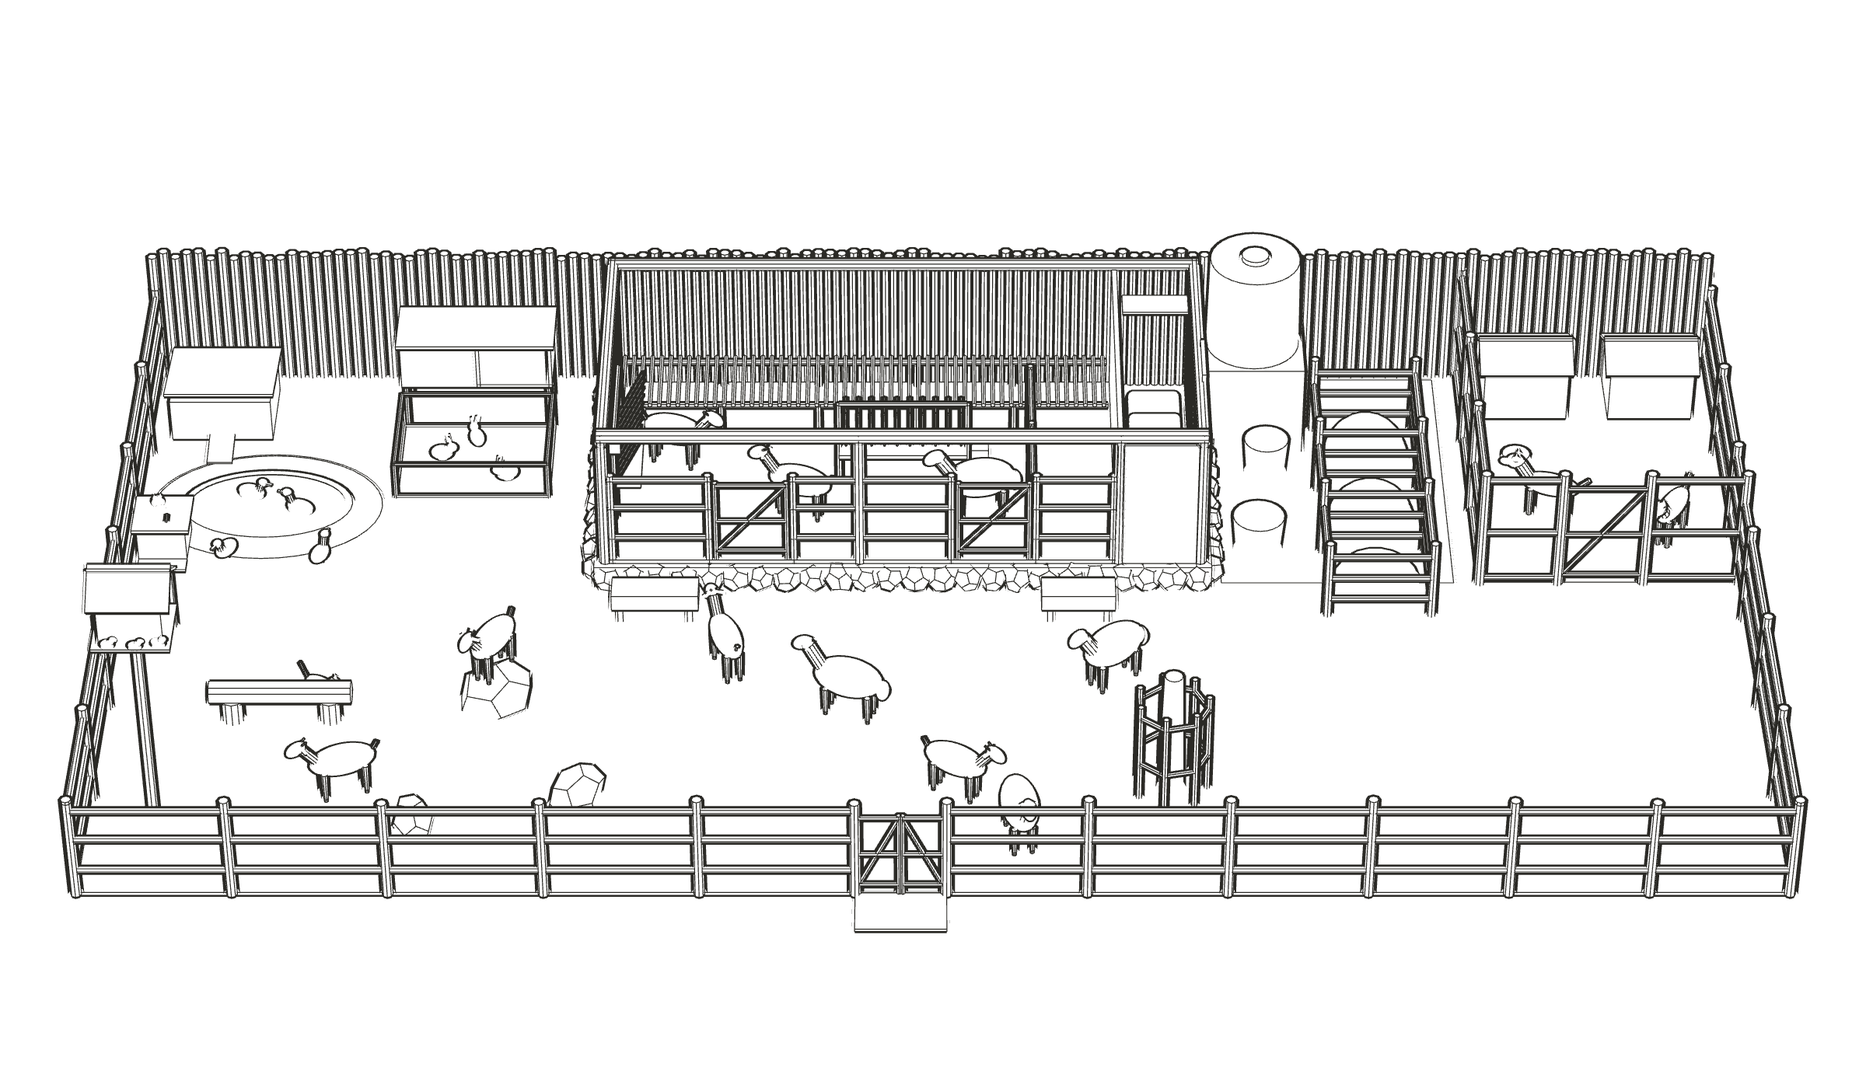
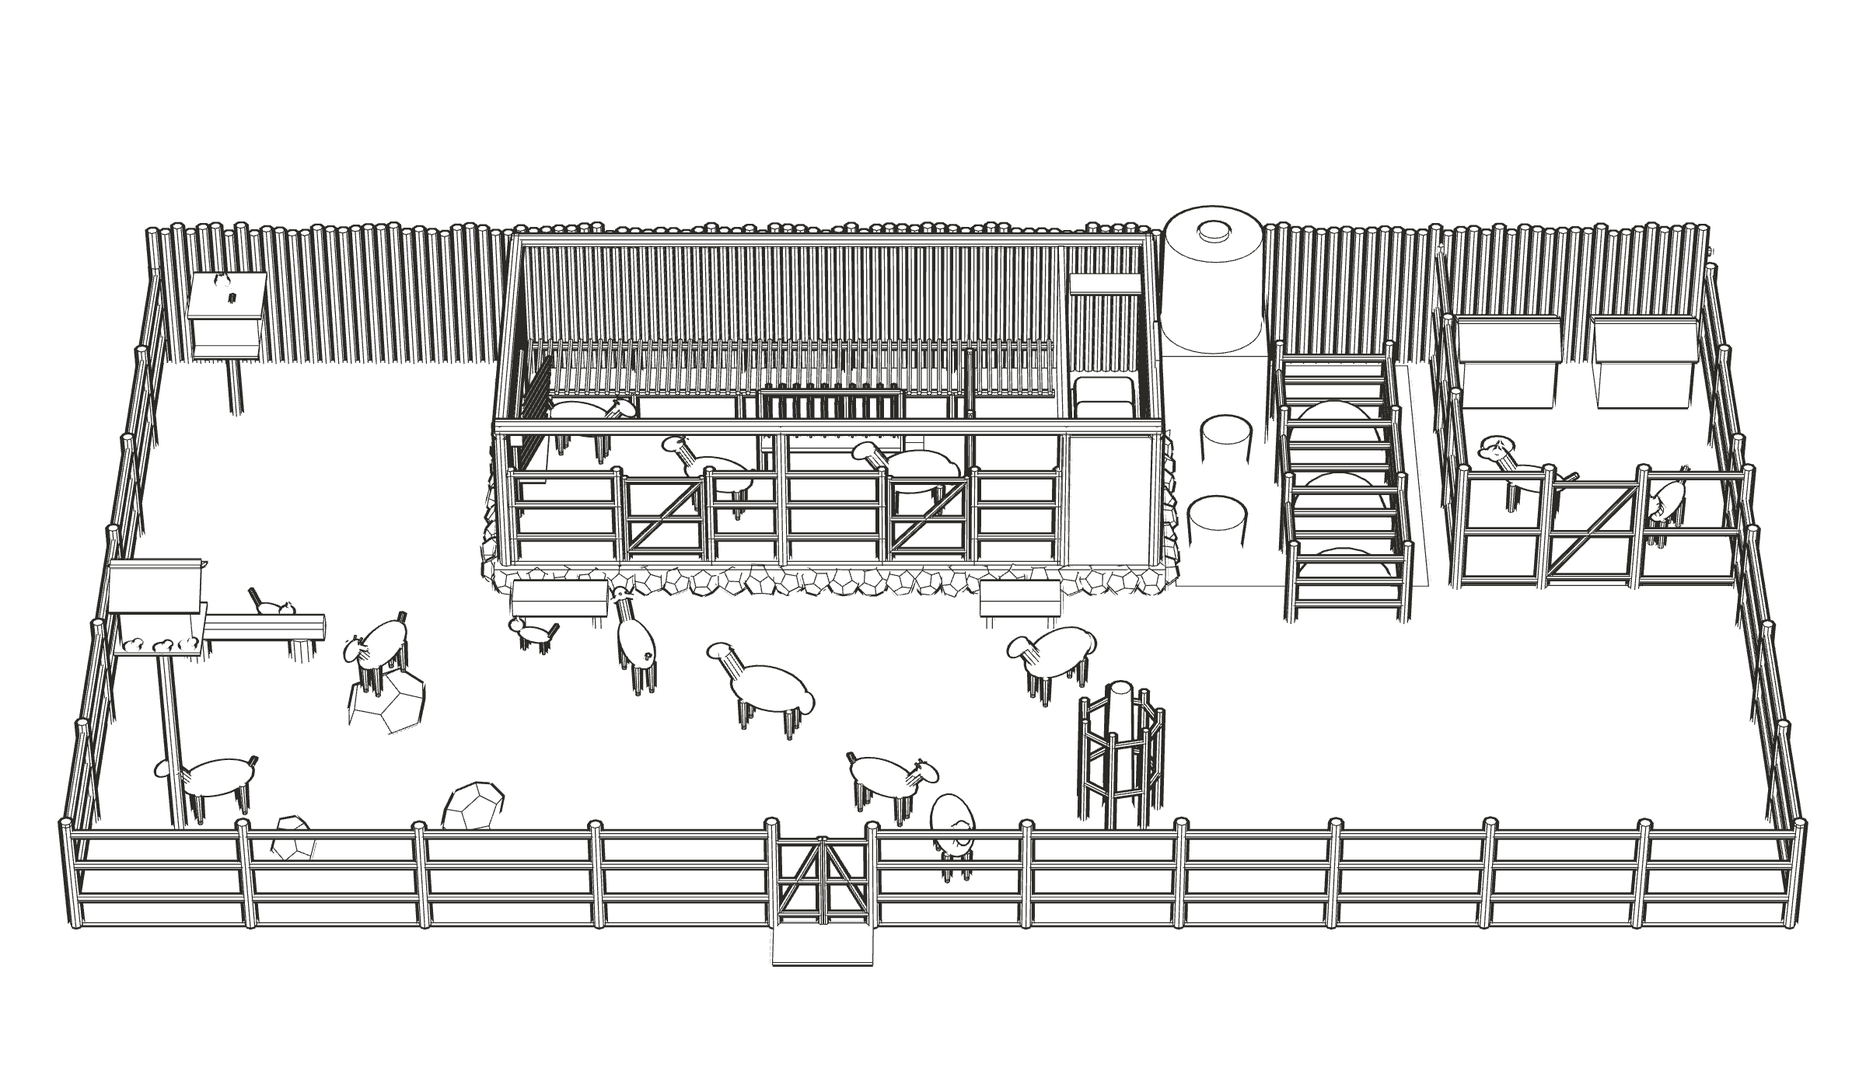
feat(livestock): farm friends are three cats and the doves, two guard dogs; D-040
The founder dropped the rabbits and the ducks and kept three cats, the birds and
two dogs. The duck house, the pond and the hutch go, the cats' house moves by the
palisade, and the outline's empty west side comes in to 17.2 m.

Claude-Session: https://claude.ai/code/session_01S6J7HfcfzMCDbDDKUuUjeQ

Changed region(s): [[0.0312, 0.1843, 0.9688, 0.8907]]

diff --git a/scripts/site/render/livestock.html b/scripts/site/render/livestock.html
@@ -6,10 +6,9 @@
   post-and-rail fence round the rest; inside it the shelter of upright eucalyptus poles on its fieldstone plinth, the
   open hall with straw litter, one slatted bamboo sleeping platform, two hay racks and the movable kidding hurdles,
   the boarded feed store; the village yard the herd, the farm friends and the guests share, with troughs, climbing
-  stones, the guarded shade tree, the ducks' house and pond, the rabbits' hutch, the dovecote, the cats' house and
-  a bench; the tank, the fodder baskets, the compost bays and the guard dogs' run in the back east corner. 6 goats,
-  4 sheep, 2 dogs, 2 cats, 4 ducks, 3 rabbits and doves. The tree's crown is cut like the roof: from this height it
-  would hide the hall and the store. Rendered three ways:
+  stones, the guarded shade tree, the dovecote, the cats' house and a bench; the tank, the fodder baskets, the
+  compost bays and the guard dogs' run in the back east corner. 6 goats, 4 sheep, 2 dogs, 3 cats and doves. The
+  tree's crown is cut like the roof: from this height it would hide the hall and the store. Rendered three ways:
 
     ?mode=line  line drawing on a transparent ground   -> public/designs/livestock/render/livestock-line.png
     ?mode=real  materials, daylight and soft shadow    -> public/designs/livestock/render/livestock-real.webp
@@ -126,7 +125,7 @@ const MAP = { yard: "earth", litter: "straw", packed: "packed", pole: "bark", bo
 
 // ------------------------------------------------------------ materials
 // thin parts get crease lines but no silhouette, so slats, rails and horns stay fine in the line drawing
-const THIN = new Set(["horn", "hoof", "bamboo", "rope", "bill"])
+const THIN = new Set(["horn", "hoof", "bamboo", "rope"])
 const COATS = { brown: "#7a4a2a", black: "#2b2522", tan: "#b48654", white: "#e6dfd2", wool: "#ece5d6" }
 const MAT = {}
 function mat(name) {
@@ -153,14 +152,10 @@ function mat(name) {
       tank: () => std({ color: "#33503a", roughness: 0.5 }),
       mesh: () => std({ color: "#6b6e70", roughness: 0.6, metalness: 0.5, transparent: true, opacity: 0.35 }),
       roofing: () => std({ color: "#5a4a3a", roughness: 0.9 }),
-      pondwater: () => new THREE.MeshPhysicalMaterial({ color: "#6f9aa8", roughness: 0.05, transparent: true, opacity: 0.85 }),
       dogtan: () => std({ color: "#a8743f", roughness: 0.85 }),
       dogblack: () => std({ color: "#2a2623", roughness: 0.85 }),
       cat: () => std({ color: "#8c8378", roughness: 0.9 }),
       ginger: () => std({ color: "#c47a3a", roughness: 0.9 }),
-      duck: () => std({ color: "#f1ede4", roughness: 0.9 }),
-      bill: () => std({ color: "#e09a2a", roughness: 0.6 }),
-      rabbit: () => std({ color: "#b8a894", roughness: 1 }),
       dove: () => std({ color: "#d9d6d2", roughness: 0.9 }),
       block: () => std({ color: "#9b958b", roughness: 0.95 }),
       hay: () => std({ map: T.hay, roughness: 1 }),
@@ -496,33 +491,9 @@ for (const a of AN.sheep) animal(a, true)
   cyl(DG.bowl.x, DG.bowl.y, DG.bowl.r, 0, 0.1, "block", 16, DG.bowl.r * 1.1)
 }
 
-// ------------------------------------------------------------ the farm friends in the yard: duck house and pond on its gravel apron,
-// the rabbits' hutch and fenced run, the dovecote, the cats' house, a log bench
+// ------------------------------------------------------------ the farm friends in the yard: the dovecote, the cats' house, a log bench
 const FRT = {}
 {
-  // the duck house, low with a ramp, and the lined pond
-  const D = FR.ducks.house
-  blk(D.x0, D.y0, D.x1, D.y1, 0.05, 0.6, "board")
-  const dr = add(new THREE.BoxGeometry(D.x1 - D.x0 + 0.1, 0.03, D.y1 - D.y0 + 0.15), "roofing", { pos: [(D.x0 + D.x1) / 2, 0.68, (D.y0 + D.y1) / 2] })
-  dr.rotation.x = -0.12
-  const ramp = add(new THREE.BoxGeometry(0.3, 0.02, 0.5), "board", { pos: [(D.x0 + D.x1) / 2, 0.08, D.y1 + 0.22] }); ramp.rotation.x = 0.15
-  const P0 = FR.ducks.pond
-  const apron = add(new THREE.CylinderGeometry(1, 1, 0.03, 40), "packed", { pos: [P0.x, 0.01, P0.y] }); apron.scale.set(P0.rx + P0.apron, 1, P0.ry + P0.apron)
-  const rim = add(new THREE.CylinderGeometry(1, 1, 0.08, 40), "stone", { pos: [P0.x, 0.03, P0.y] }); rim.scale.set(P0.rx, 1, P0.ry)
-  const wtr = add(new THREE.CylinderGeometry(1, 1, 0.02, 40), "pondwater", { pos: [P0.x, 0.075, P0.y], noEdges: LINE }); wtr.scale.set(P0.rx - 0.12, 1, P0.ry - 0.12)
-  // the rabbits' hutch on legs, a sleeping end boarded and a wire end, and the grass run (an open frame)
-  const R = FR.rabbits.hutch, RR = FR.rabbits.run, mid = (R.x0 + R.x1) / 2
-  for (const x of [R.x0 + 0.05, R.x1 - 0.05]) for (const z of [R.y0 + 0.05, R.y1 - 0.05]) pole(x, z, 0.03, 0, R.h)
-  blk(R.x0, R.y0, mid, R.y1, R.h, R.h + 0.6, "board")
-  blk(mid, R.y0, R.x1, R.y1, R.h, R.h + 0.04, "board")
-  for (const x of [mid + 0.02, R.x1 - 0.02]) blk(x - 0.02, R.y0, x + 0.02, R.y1, R.h, R.h + 0.6, "board")
-  if (!LINE) add(new THREE.PlaneGeometry(R.x1 - mid, 0.56), "mesh", { pos: [(mid + R.x1) / 2, R.h + 0.32, R.y1], noEdges: true })
-  blk(R.x0 - 0.04, R.y0 - 0.06, R.x1 + 0.04, R.y1 + 0.06, R.h + 0.6, R.h + 0.64, "roofing")
-  for (const [x0, z0, x1, z1] of [[RR.x0, RR.y0, RR.x1, RR.y0], [RR.x1, RR.y0, RR.x1, RR.y1], [RR.x1, RR.y1, RR.x0, RR.y1], [RR.x0, RR.y1, RR.x0, RR.y0]]) {
-    pipe([x0, 0.03, z0], [x1, 0.03, z1], 0.025, "pole", 6); pipe([x0, 0.5, z0], [x1, 0.5, z1], 0.02, "pole", 6)
-    pole(x0, z0, 0.025, 0, 0.5, 6)
-    if (!LINE) { const m = add(new THREE.PlaneGeometry(Math.hypot(x1 - x0, z1 - z0), 0.47), "mesh", { pos: [(x0 + x1) / 2, 0.265, (z0 + z1) / 2], noEdges: true }); m.rotation.y = -Math.atan2(z1 - z0, x1 - x0) }
-  }
   // the dovecote: a little house with a pitched roof on a pole, doves on its roof and ledge
   const V = FR.dovecote
   pole(V.x, V.y, 0.06, 0, V.h)
@@ -562,29 +533,17 @@ function friend(a, kind) {
     for (const s of [1, -1]) { const e = add(new THREE.ConeGeometry(0.03, 0.08, 6), c, { pos: [0.42, 0.78, s * 0.05] }); e.userData.noEdges = LINE }
     pipe([-0.32, 0.48, 0], [-0.46, 0.62, 0], 0.025, c, 6)
   } else if (kind === "cat") {
-    const c = a === AN.cats[0] ? "ginger" : "cat"
+    const c = ["ginger", "cat", "dogblack"][AN.cats.indexOf(a)] ?? "cat"
     ellipsoid(0, 0.2, 0, 0.17, 0.07, 0.07, c)
     for (const dx of [0.11, -0.11]) for (const dz of [0.035, -0.035]) cyl(dx, dz, 0.015, 0, 0.16, c, 6)
     ellipsoid(0.2, 0.28, 0, 0.065, 0.06, 0.06, c)
     for (const s of [1, -1]) { const e = add(new THREE.ConeGeometry(0.02, 0.05, 5), c, { pos: [0.2, 0.35, s * 0.035] }); e.userData.noEdges = LINE }
     pipe([-0.16, 0.22, 0], [-0.26, 0.4, 0], 0.012, c, 5)
-  } else if (kind === "duck") {
-    ellipsoid(0, 0.12, 0, 0.16, 0.08, 0.09, "duck")
-    pipe([0.1, 0.15, 0], [0.14, 0.27, 0], 0.035, "duck", 8)
-    ellipsoid(0.16, 0.29, 0, 0.055, 0.045, 0.045, "duck")
-    blk(0.2, -0.018, 0.28, 0.018, 0.27, 0.29, "bill")
-    for (const dz of [0.04, -0.04]) cyl(0, dz, 0.008, 0, 0.05, "bill", 5)
-  } else if (kind === "rabbit") {
-    ellipsoid(0, 0.1, 0, 0.13, 0.09, 0.08, "rabbit")
-    ellipsoid(0.12, 0.17, 0, 0.06, 0.055, 0.05, "rabbit")
-    for (const s of [1, -1]) { const e = add(new THREE.BoxGeometry(0.025, 0.12, 0.03), "rabbit", { pos: [0.1, 0.27, s * 0.025], rot: [s * 0.15, 0, 0.2] }); e.userData.noEdges = LINE }
   }
   PARENT = scene
 }
 for (const a of AN.dogs) friend(a, "dog")
 for (const a of AN.cats) friend(a, "cat")
-for (const a of AN.ducks) friend(a, "duck")
-for (const a of AN.rabbits) friend(a, "rabbit")
 // doves on the dovecote's ledge
 for (const [dx, dz] of [[-0.25, 0.4], [0.05, 0.42], [0.3, 0.38]]) {
   const V = FR.dovecote

diff --git a/src/app/en/livestock/page.tsx b/src/app/en/livestock/page.tsx
@@ -6,13 +6,13 @@ import { LivestockPlan } from "@/components/livestock/livestock-plan"
 // The livestock yard, as /en/bar is one bar: a full-screen hero, then the 2D and the 3D. Both drawings read
 // src/components/livestock/livestock.json: the starting herd of 6 goats and 4 sheep (D-030) in a thatched pole
 // shelter's open hall (D-037) inside one outline (D-039), opening onto the village yard they share by day with the
-// farm friends, the ducks, the rabbits, the doves and the cats, and with the guests (D-038); the guard dogs' run, the
-// feed store, the tank and the compost bays that close the loop to the field. Every size is an assumption until the
-// farm's vet checks it.
+// farm friends, 3 cats and the doves, and with the guests (D-038, D-040); the 2 guard dogs' run, the feed store, the
+// tank and the compost bays that close the loop to the field. Every size is an assumption until the farm's vet
+// checks it.
 
 export const metadata: Metadata = {
   title: "The livestock · Farm",
-  description: "Goats, sheep, ducks, rabbits, doves and cats in one village yard by a thatched shelter, guard dogs on watch, part of the farm’s loop from field to compost, at the Digital Farm near Kigali.",
+  description: "Goats and sheep in one village yard by a thatched shelter, with three cats, free-flying doves and two guard dogs, part of the farm’s loop from field to compost, at the Digital Farm near Kigali.",
 }
 
 const D = "/designs/livestock"
@@ -29,15 +29,15 @@ export default function LivestockPage() {
 
       {/* 2D, full screen: the house's plan (src/components/livestock/livestock-plan.tsx), in the text colour. */}
       <DrawingSection id="plans" title="2D">
-        <LivestockPlan title="Plan: one outline 18,700 by 9,600 mm, a pole palisade at the back and a post-and-rail fence round the rest with one gate to the paddock. Inside, a thatched pole shelter 7,000 by 3,600 mm on a fieldstone plinth: one open hall for the herd with a slatted bamboo sleeping platform along the back, two hay racks, the goats’ mineral box high and the sheep’s low, movable kidding hurdles at the east end, a front rail with two gates, and the lockable feed store; the village yard for the herd, the farm friends and the guests, with troughs, climbing stones, a shade tree, a log bench, a dovecote and a cats’ house on posts, the ducks’ house and pond on a gravel apron and the rabbits’ hutch; behind the store the tank, fodder baskets and three compost bays, and the guard dogs’ run with two kennels in the back east corner."
+        <LivestockPlan title="Plan: one outline 17,200 by 9,600 mm, a pole palisade at the back and a post-and-rail fence round the rest with one gate to the paddock. Inside, a thatched pole shelter 7,000 by 3,600 mm on a fieldstone plinth: one open hall for the herd with a slatted bamboo sleeping platform along the back, two hay racks, the goats’ mineral box high and the sheep’s low, movable kidding hurdles at the east end, a front rail with two gates, and the lockable feed store; the village yard for the herd, the farm friends and the guests, with troughs, climbing stones, a shade tree, a log bench, a dovecote and a cats’ house on posts; behind the store the tank, fodder baskets and three compost bays, and the guard dogs’ run with two kennels in the back east corner."
           className="h-auto w-full lg:h-full lg:w-auto" />
       </DrawingSection>
 
       {/* 3D, in the 2D section's pattern: the yard seen straight on from the paddock with the roof off, as a line
           drawing, then rendered. Both from scripts/site/render/livestock.html. */}
       <ModelSection line={`${D}/render/livestock-line.png`} real={`${D}/render/livestock-real.webp`} width={2400} height={1400}
-        lineAlt="Line drawing of the livestock yard from the paddock with the roofs off: one outline, the palisade behind and a post-and-rail fence round the rest with a two-leaf gate; the shelter of upright poles on its fieldstone plinth with one long bamboo sleeping platform, two hay racks, the kidding hurdles and the front rail with two gates, the boarded feed store; goats and sheep mixing in the yard, one goat on a stone, troughs, a bench, the dovecote and the cats’ house on posts, the ducks by their pond, the rabbits’ hutch, the guarded tree; the tank, the baskets, the compost bays and the dogs’ run with two kennels in the back corner."
-        realAlt="The same view rendered: grey-brown eucalyptus poles lashed with pale sisal, golden straw litter in the pens, red-brown earth and straw in the yard, brown, black, tan and white goats and white sheep with black faces, white ducks on a blue pond, grey rabbits, a ginger cat on its house, doves on the dovecote, a green tank, woven baskets of green fodder, the compost bays and a tan and a black dog in their run." />
+        lineAlt="Line drawing of the livestock yard from the paddock with the roofs off: one outline, the palisade behind and a post-and-rail fence round the rest with a two-leaf gate; the shelter of upright poles on its fieldstone plinth with one long bamboo sleeping platform, two hay racks, the kidding hurdles and the front rail with two gates, the boarded feed store; goats and sheep mixing in the yard, one goat on a stone, troughs, a bench, the dovecote and the cats’ house on posts, three cats, the guarded tree; the tank, the baskets, the compost bays and the dogs’ run with two kennels in the back corner."
+        realAlt="The same view rendered: grey-brown eucalyptus poles lashed with pale sisal, golden straw litter in the hall, red-brown earth and straw in the yard, brown, black, tan and white goats and white sheep with black faces, a ginger cat on its house and a grey and a black cat in the yard, doves on the dovecote, a green tank, woven baskets of green fodder, the compost bays and a tan and a black dog in their run." />
     </main>
   )
 }

diff --git a/src/components/livestock/livestock-plan.tsx b/src/components/livestock/livestock-plan.tsx
@@ -75,7 +75,7 @@ export function LivestockPlan({ title, className }: { title: string; className?:
   const { hall, kidding, store } = pens
   const Y = yards.y1
   const door = 0.7
-  const { ducks, rabbits, dovecote, cats, bench } = friends
+  const { dovecote, cats, bench } = friends
   const yg = yards.gate, dg = dogs.gate
   const x0 = yards.x0 - 0.3, x1 = yards.x1 + 0.75
   const top = palisade.y - 0.6, bottom = Y + 1.1
@@ -131,16 +131,7 @@ export function LivestockPlan({ title, className }: { title: string; className?:
       <circle cx={tree.x} cy={tree.y} r={tree.guard} {...line} />
       <circle cx={tree.x} cy={tree.y} r={0.13} {...solid} />
 
-      {/* The farm friends: the duck house and the pond on its gravel apron, the rabbits' hutch with its run built on,
-          the dovecote on its pole, the cats' house on a post, a log bench */}
-      <rect {...box(ducks.house)} {...line} />
-      <line x1={ducks.house.x0} x2={ducks.house.x1} y1={f((ducks.house.y0 + ducks.house.y1) / 2)} y2={f((ducks.house.y0 + ducks.house.y1) / 2)} {...fine} />
-      <ellipse cx={ducks.pond.x} cy={ducks.pond.y} rx={f(ducks.pond.rx + ducks.pond.apron)} ry={f(ducks.pond.ry + ducks.pond.apron)} {...dashed} />
-      <ellipse cx={ducks.pond.x} cy={ducks.pond.y} rx={ducks.pond.rx} ry={ducks.pond.ry} {...line} />
-      <ellipse cx={ducks.pond.x} cy={ducks.pond.y} rx={f(ducks.pond.rx - 0.12)} ry={f(ducks.pond.ry - 0.12)} {...fine} />
-      <rect {...box(rabbits.hutch)} {...line} />
-      <line x1={f((rabbits.hutch.x0 + rabbits.hutch.x1) / 2)} x2={f((rabbits.hutch.x0 + rabbits.hutch.x1) / 2)} y1={rabbits.hutch.y0} y2={rabbits.hutch.y1} {...fine} />
-      <rect {...box(rabbits.run)} {...fine} />
+      {/* The farm friends: the dovecote on its pole, the cats' house on a post by the palisade, a log bench */}
       <rect {...rect(dovecote.x - dovecote.s / 2, dovecote.y - dovecote.s / 2, dovecote.x + dovecote.s / 2, dovecote.y + dovecote.s / 2)} {...line} />
       <circle cx={dovecote.x} cy={dovecote.y} r={0.07} {...solid} />
       <rect {...rect(cats.house.x - cats.house.s / 2, cats.house.y - cats.house.s / 2, cats.house.x + cats.house.s / 2, cats.house.y + cats.house.s / 2)} {...line} />
@@ -184,15 +175,12 @@ export function LivestockPlan({ title, className }: { title: string; className?:
 
       {/* What is where, in one row above, as the studio's BED, SEATING, GALLEY, BATH; the rest in place */}
       {([
-        [(ducks.house.x0 + ducks.house.x1) / 2, "DUCKS"], [(rabbits.hutch.x0 + rabbits.hutch.x1) / 2, "RABBITS"],
-        [(hall.x0 + kidding.x0) / 2, hall.label], [(store.x0 + store.x1) / 2, store.label], [tank.x, "TANK"],
+        [cats.house.x, "CATS"], [(hall.x0 + kidding.x0) / 2, hall.label], [(store.x0 + store.x1) / 2, store.label], [tank.x, "TANK"],
         [compost.x0 + compost.bay / 2, "COMPOST"], [(dogs.x0 + dogs.x1) / 2, "DOGS"],
       ] as const).map(([x, t]) => <text key={t} x={f(x)} y={f(row)} textAnchor="middle" style={label}>{t}</text>)}
       <text x={f((kidding.x0 + kidding.x1) / 2)} y={f(W - 0.35)} textAnchor="middle" style={small}>{kidding.label}</text>
       <text x={-1.0} y={3.4} textAnchor="middle" style={label}>VILLAGE YARD</text>
-      <text x={ducks.pond.x} y={f(ducks.pond.y + 0.05)} textAnchor="middle" style={small}>POND</text>
       <text x={dovecote.x} y={f(dovecote.y + dovecote.s / 2 + 0.22)} textAnchor="middle" style={small}>DOVES</text>
-      <text x={cats.house.x} y={f(cats.house.y + cats.house.s / 2 + 0.22)} textAnchor="middle" style={small}>CATS</text>
       <text x={f((bench.x0 + bench.x1) / 2)} y={f(bench.y + 0.4)} textAnchor="middle" style={small}>BENCH</text>
       <text x={f(yg.x0 + yg.w / 2)} y={f(bottom - 0.12)} textAnchor="middle" style={small}>TO THE PADDOCK · GUESTS</text>
 

diff --git a/src/lib/design-blur.generated.ts b/src/lib/design-blur.generated.ts
@@ -10,8 +10,8 @@ export const DESIGN_BLUR: Record<string, string> = {
[10 lines of base64/hex data omitted]

diff --git a/src/app/en/farming/page.tsx b/src/app/en/farming/page.tsx
@@ -69,9 +69,9 @@ export default function FarmingPage() {
             <h2 className="text-3xl font-semibold tracking-tight">Livestock</h2>
             <Link href="/en/livestock" className="text-sm underline underline-offset-4">The livestock page</Link>
           </div>
-          <p className="text-muted-foreground mt-3 max-w-2xl">Six goats and four sheep share a village yard with ducks, rabbits, doves and cats, beyond the field: their litter goes to the compost bays and back to these beds.</p>
+          <p className="text-muted-foreground mt-3 max-w-2xl">Six goats and four sheep share a village yard with cats and doves, beyond the field: their litter goes to the compost bays and back to these beds.</p>
           <div className="mt-6 flex min-h-0 flex-1 items-center justify-center">
-            <LivestockPlan title="Plan of the livestock yard: one outline round a thatched pole shelter with one open hall for the herd and a feed store, one village yard for the herd, the ducks, the rabbits, the doves, the cats and the guests, three compost bays and the guard dogs’ run."
+            <LivestockPlan title="Plan of the livestock yard: one outline round a thatched pole shelter with one open hall for the herd and a feed store, one village yard for the herd, the cats, the doves and the guests, three compost bays and the guard dogs’ run."
               className="h-auto w-full lg:h-full lg:w-auto" />
           </div>
         </div>

diff --git a/study/execution/decision-log.md b/study/execution/decision-log.md
@@ -147,3 +147,6 @@ Context: the founder asked for rooms for guard dogs and for cats, ducks, rabbits
 
 **D-039 · 2026-10-29 · One outline round the whole livestock yard, and one open hall for the herd inside the shelter.**
 Context: the founder asked for "one outline all together" instead of many partitions. Decision: `src/components/livestock/livestock.json` draws one outline, 18.7 x 9.6 m: the palisade is its back and one post-and-rail fence closes the west, the front (one two-leaf gate to the paddock) and the east. Everything stands inside it: the shelter, the village yard, the pond, the rabbits' hutch, the tank, the baskets, the compost bays (closed with a removable rail against the goats) and the guard dogs' run, now in the outline's back east corner and the one fenced place inside. The shelter's goat, kidding and sheep pens become one open hall, 6.0 x 3.6 m, for all 10 head, with one bamboo sleeping platform along the back, two hay racks (one on the west wall, one fed from both sides in the middle), a front rail and two gates shut at night. Kidding is a set of movable hurdles put up when a doe or a ewe is due. Goats and sheep now sleep together: the goats' mineral box hangs at 1.2 m on the west wall, above the sheep's reach, and the sheep's sits low; goats eating sheep minerals does no harm [A]. This replaces D-038's separate night pens. The rabbits' run is built onto their hutch as one unit. The feed store stays walled and locked. Every size [A]. Revisit when the vet has seen the plan.
+
+**D-040 · 2026-10-29 · The farm friends are 3 cats and the doves; no ducks or rabbits. 2 guard dogs.**
+Context: the founder said to drop the rabbits and the ducks and keep three cats, the birds and two dogs. Decision: `src/components/livestock/livestock.json` loses the duck house, the pond and the rabbits' hutch; the cats go from 2 to 3, with their house moved by the palisade; the doves keep their dovecote; the 2 guard dogs keep their run. With the west wing empty, the outline's west side comes in from 9.0 to 7.5 m off the shelter's centre, so the outline is 17.2 x 9.6 m. Updates D-038; every number [A].
